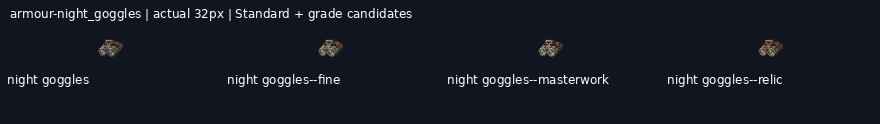
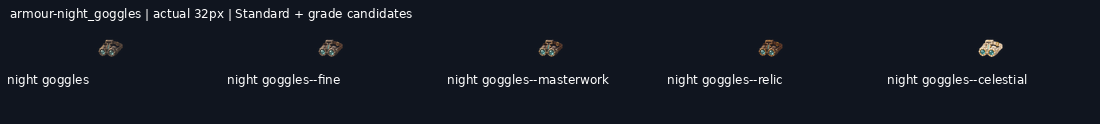
art: draw armour-night_goggles--celestial grade candidate

diff --git a/art/_archive/gear/2026-11-19-kept-blade-grades/HANDOFF.md b/art/_archive/gear/2026-11-19-kept-blade-grades/HANDOFF.md
@@ -1,6 +1,6 @@
 # Gear grade candidates
 
-**116/128 grade candidates delivered** on `art/2026-11-19-kept-blade-grades`. Shared mailbox: https://github.com/leonpentastorm/Project-Heaven-Cry/issues/3 . See claim.json for this lane’s current Standards. Released overlapping blades reuse12 peer candidates, with3 local alternatives archived.
+**117/128 grade candidates delivered** on `art/2026-11-19-kept-blade-grades`. Shared mailbox: https://github.com/leonpentastorm/Project-Heaven-Cry/issues/3 . See claim.json for this lane’s current Standards. Released overlapping blades reuse12 peer candidates, with3 local alternatives archived.
 
 Leon requested continuous candidate production; proof approval is not fabricated. All candidates remain review-candidate, production_approved:false, implementation_ready:false, with outline.review_required:true. Exact outline is measured, never asserted unless the masks match. Per-image registration is uniform scaling/translation only, without warp, silhouette masks, filled pixels or code-drawn substitutes. The generated native remains untouched.
 
@@ -10,12 +10,12 @@ Tomorrow: fetch this branch and develop safely, read the latest issue 3 comments
 
 Peer audit: [coordination/peer-audit-2026-11-19.md](coordination/peer-audit-2026-11-19.md). Peer58 masters/232 exports and12 canonical imports are integrated with versioned alpha<8 cleanup; originals are retained. See coordination/peer-import-v2/manifest.json and post-catalog VALIDATION.json (strict margins pass, solid alpha unchanged). Peer quota resets20 November2026 at09:45:39 Bangkok time; this does not establish this session’s quota.
 
-Remaining: weapon-ork_machete--masterwork, weapon-ork_machete--relic, weapon-ork_machete--celestial, weapon-war_axe--fine, weapon-war_axe--masterwork, weapon-war_axe--relic, weapon-war_axe--celestial, armour-night_goggles--celestial, armour-gas_mask--fine, armour-gas_mask--masterwork, armour-gas_mask--relic, armour-gas_mask--celestial.
+Remaining: weapon-ork_machete--masterwork, weapon-ork_machete--relic, weapon-ork_machete--celestial, weapon-war_axe--fine, weapon-war_axe--masterwork, weapon-war_axe--relic, weapon-war_axe--celestial, armour-gas_mask--fine, armour-gas_mask--masterwork, armour-gas_mask--relic, armour-gas_mask--celestial.
 
 Service-rejected requests (do not repeatedly resubmit): weapon-ork_machete--masterwork, weapon-war_axe--fine.
 
 Waiting on rejected prerequisites: weapon-ork_machete--celestial, weapon-ork_machete--relic, weapon-war_axe--celestial, weapon-war_axe--masterwork, weapon-war_axe--relic.
 
-Ready independent next steps, in queue order: armour-night_goggles--celestial, armour-gas_mask--fine. Other pending grades follow their preceding grade.
+Ready independent next steps, in queue order: armour-gas_mask--fine. Other pending grades follow their preceding grade.
 
 Runtime handoff: implementation_ready:false records review status but does not gate the web asset builder. The builder emits grade asset keys; the current UI gear resolver still needs grade-aware selection. Do not claim that runtime grade selection is implemented by these art deliveries.
